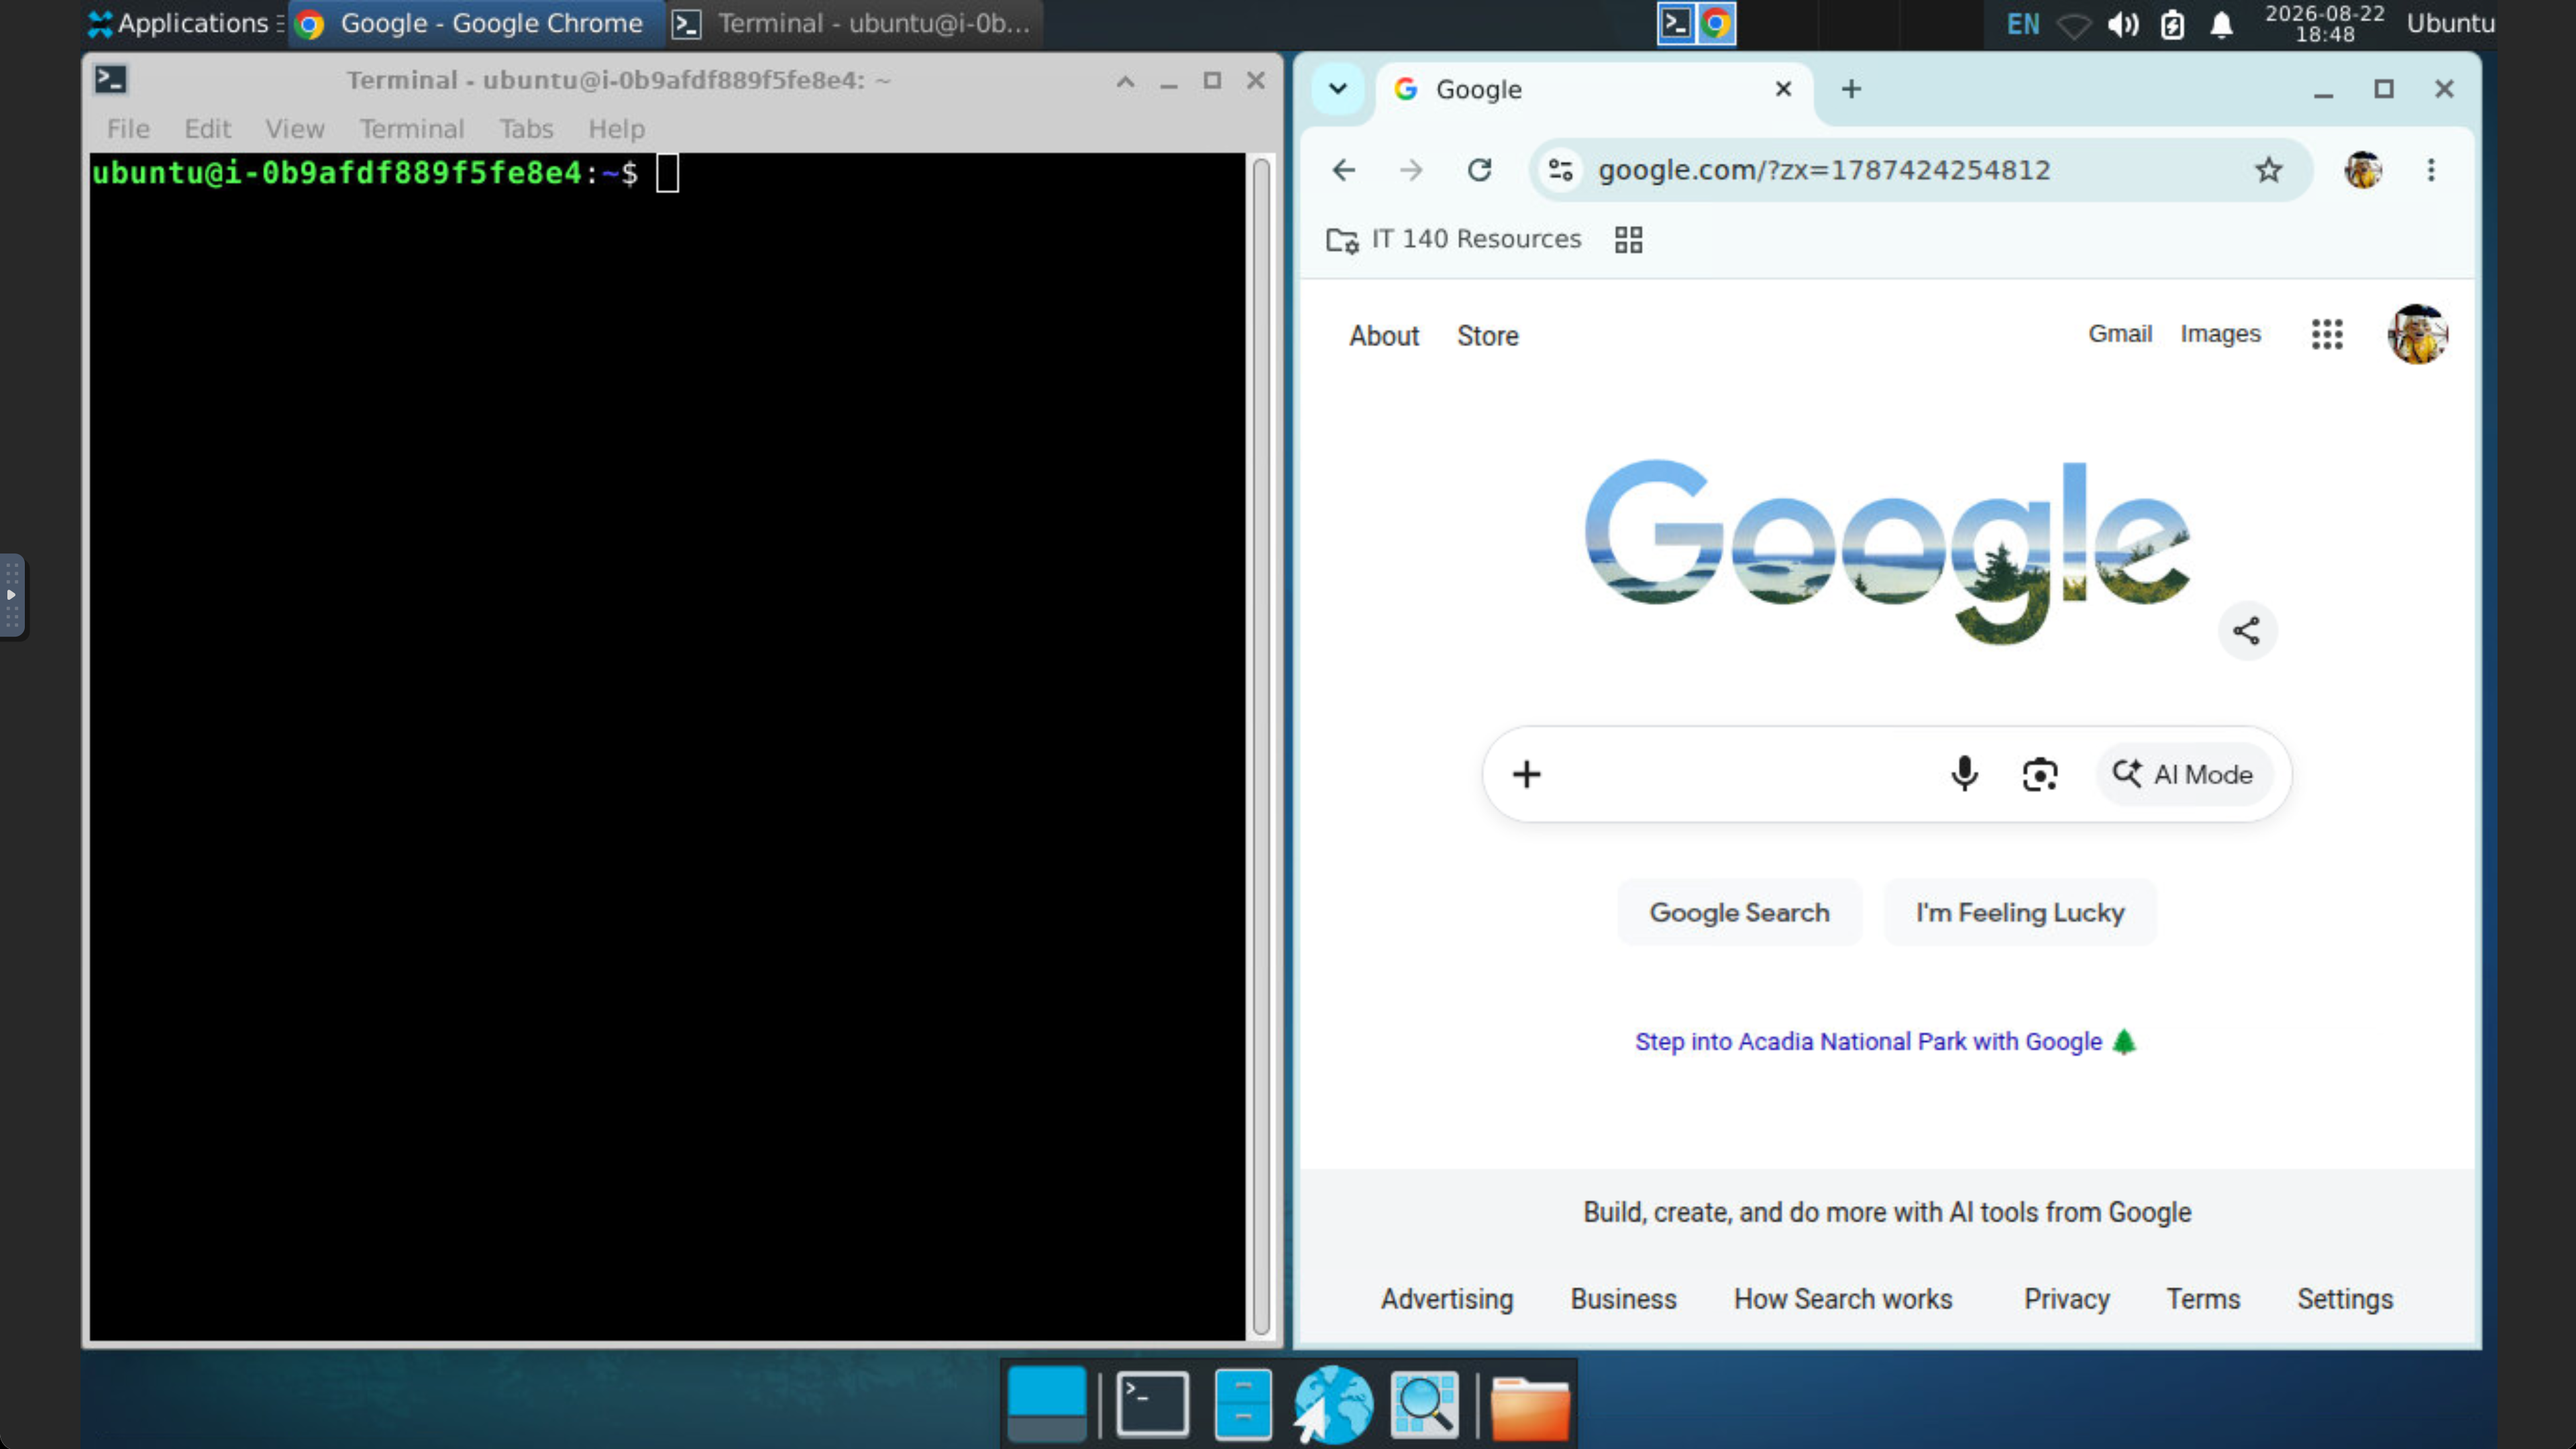
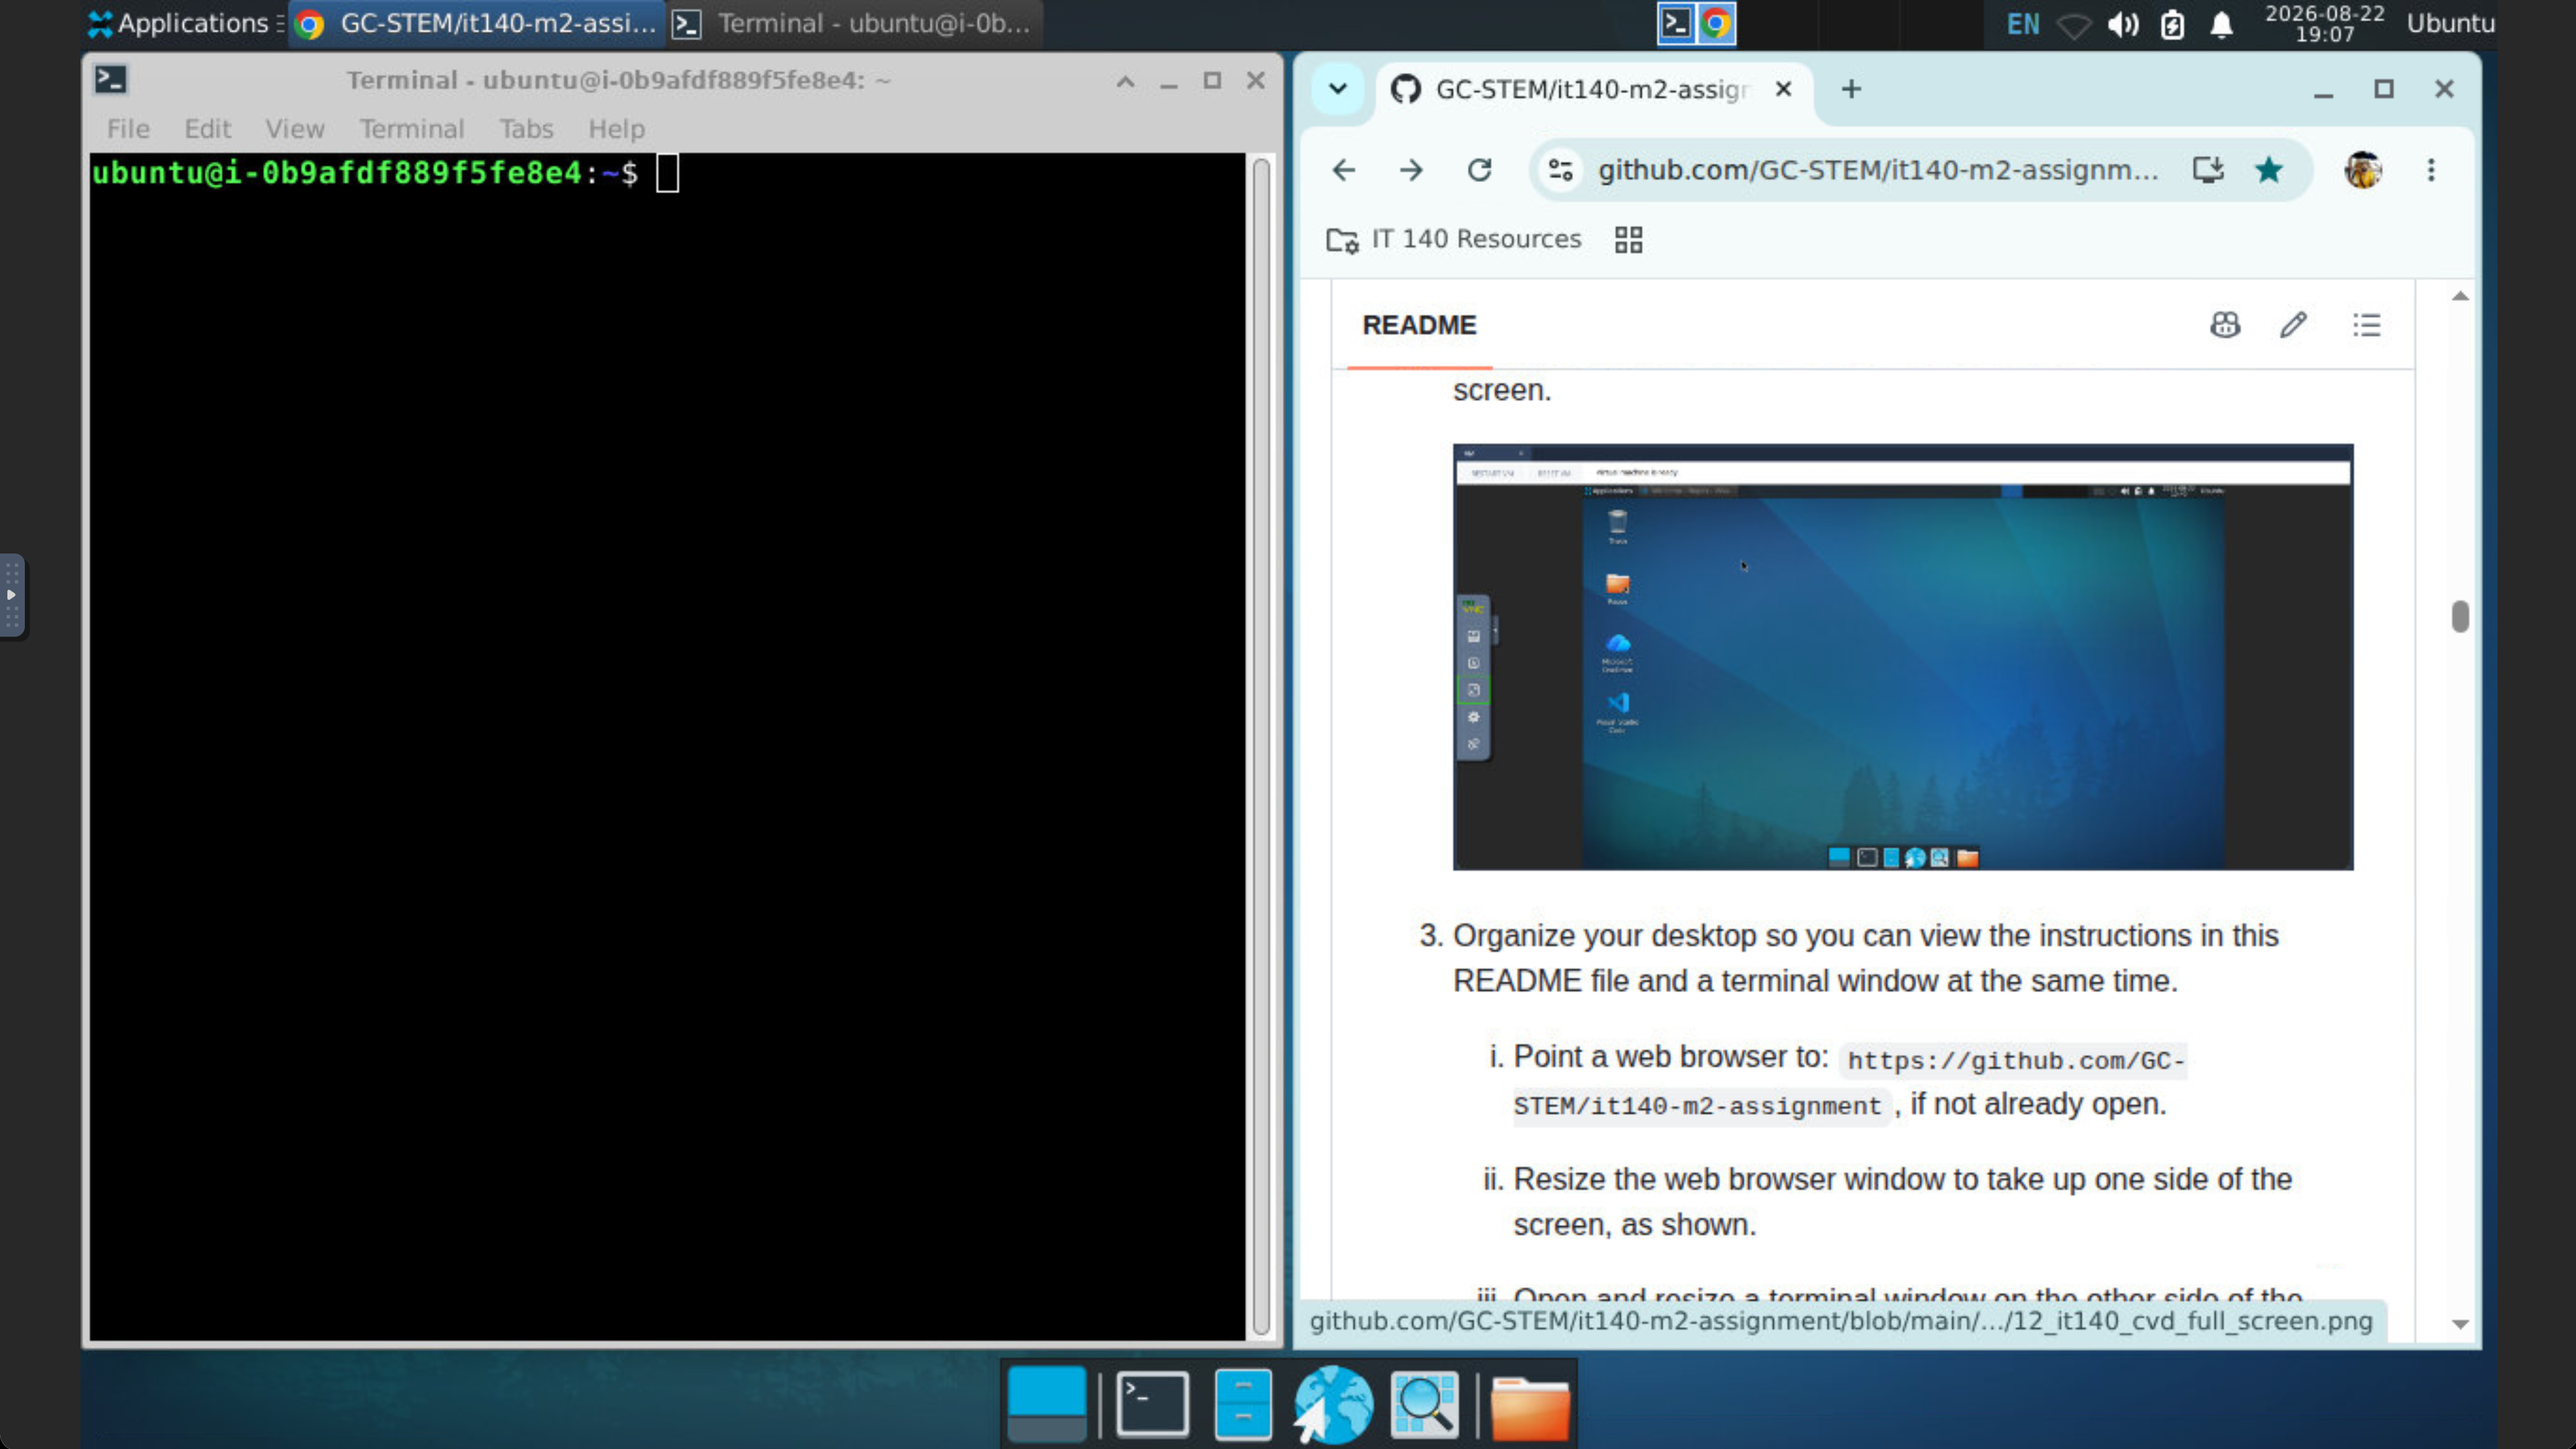
Update README and assets for Codio Virtual Desktop instructions

diff --git a/README.md b/README.md
@@ -123,21 +123,21 @@ If you have not completed all the [Module One Setup Tasks](https://github.com/GC
 
    ![Optional Codio Virtual Desktop page in D2L Brightspace](.github/assets/11_it140_ocvd_page.png)
 
-2. If on the Codio Virtual Desktop (CVD), expand the window to full screen.
+2. If you are on the Codio Virtual Desktop (CVD), expand the window to full screen.
 
    ![Codio Virtual Desktop (CVD) in full screen](.github/assets/12_it140_cvd_full_screen.png)
 
 3. Organize your desktop so you can view the instructions in this README file and a terminal window at the same time.
 
-   1. Point a web browser to: `https://github.com/GC-STEM/it140-m2-assignment`, if not already open.
+   1. Point a web browser to: `https://github.com/GC-STEM/it140-m2-assignment`, if not there already.
 
-   2. Resize the web browser window to take up one side of the screen, as shown.
+   2. Resize the web browser window to take up one side of the screen, as shown. Scroll down to find the place where you left off in this README file.
 
    3. Open and resize a terminal window on the other side of the screen, as shown.
 
-   ![Organize your desktop to view the browser and terminal side by side](.github/assets/14_it140_cvd_browser_position.png)
+   ![Organize your desktop to view the browser and terminal side by side](.github/assets/13_it140_cvd_terminal_browser.png)
 
-3. If you have not updated your system today, open a terminal window and run the following command for your platform. This will update your course IDE. Be patient while the script runs. It may take a few minutes to complete.
+4. If you have not updated your system today, open a terminal window and run the following command for your platform. This will update your course IDE. Be patient while the script runs. It may take a few minutes to complete.
 
    - Codio Virtual Desktop (CVD) or other Linux terminal:
 
@@ -160,15 +160,15 @@ If you have not completed all the [Module One Setup Tasks](https://github.com/GC
 
       ```
 
-   ![Codio Virtual Desktop (CVD) update](.github/assets/13_it140_cvd_update.png)
+   ![Codio Virtual Desktop (CVD) update](.github/assets/14_it140_cvd_update.png)
 
-4. Review the output to confirm that the update completed successfully.
+5. Review the output to confirm that the update completed successfully.
    - Result: PASS
    - Failures: 0
    - Restart required: Yes or No
    - If you see any errors, do not continue. Use the [Help and Support](#help-and-support) resources to resolve the issue before continuing.
 
-5. Type `exit` to close the terminal window when the update is complete. Restart your environment if required.
+6. Type `exit` to close the terminal window when the update is complete. Restart your environment if required.
    - On the CVD, click **RESTART VM**. Do NOT click **RESET VM**.
 
 ### 2. Open the VS Code Integrated Terminal
